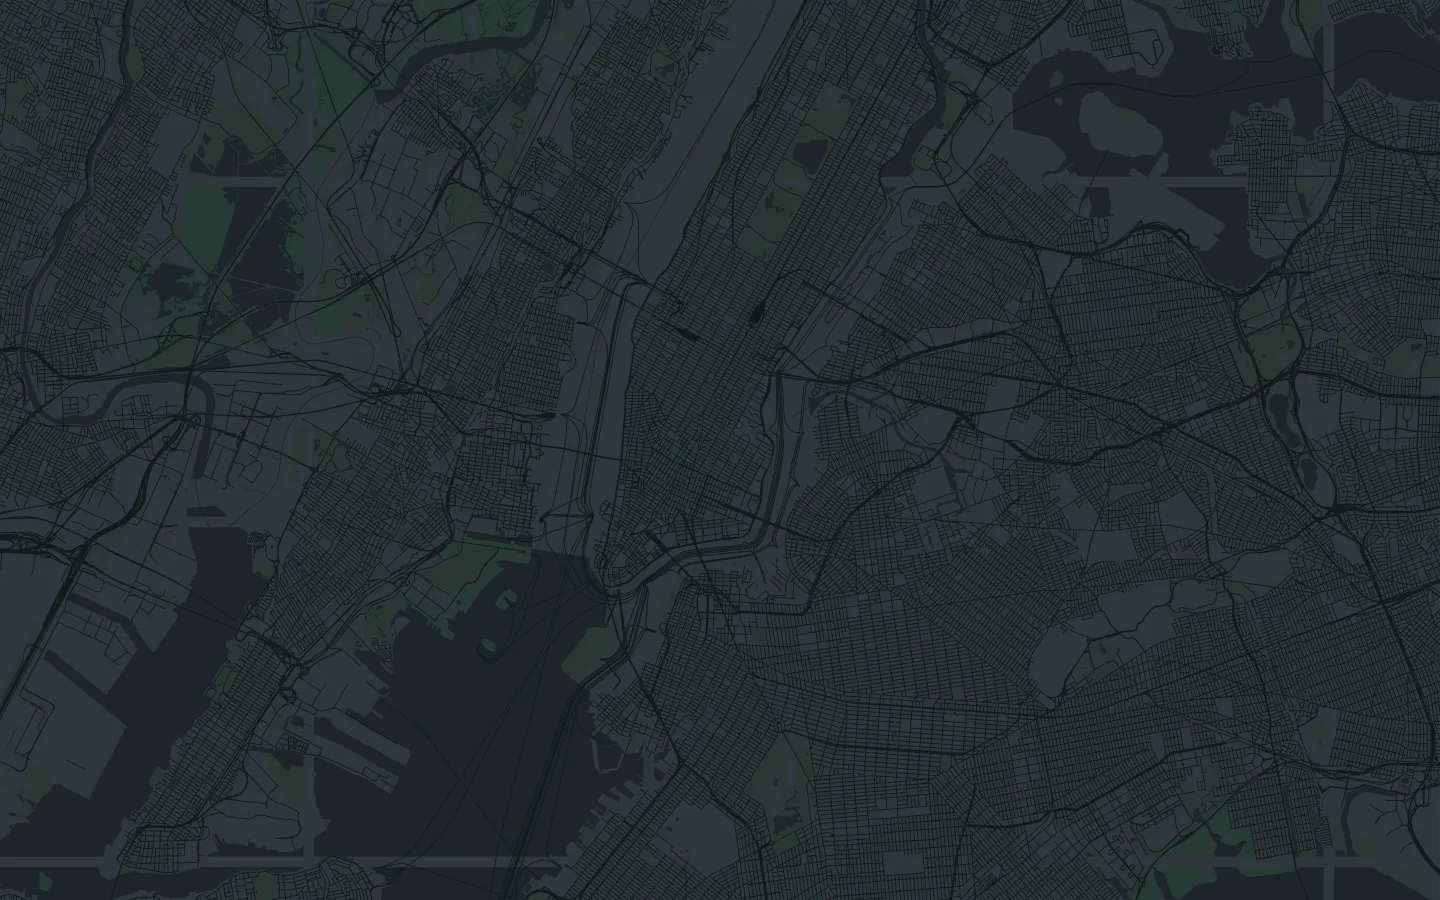
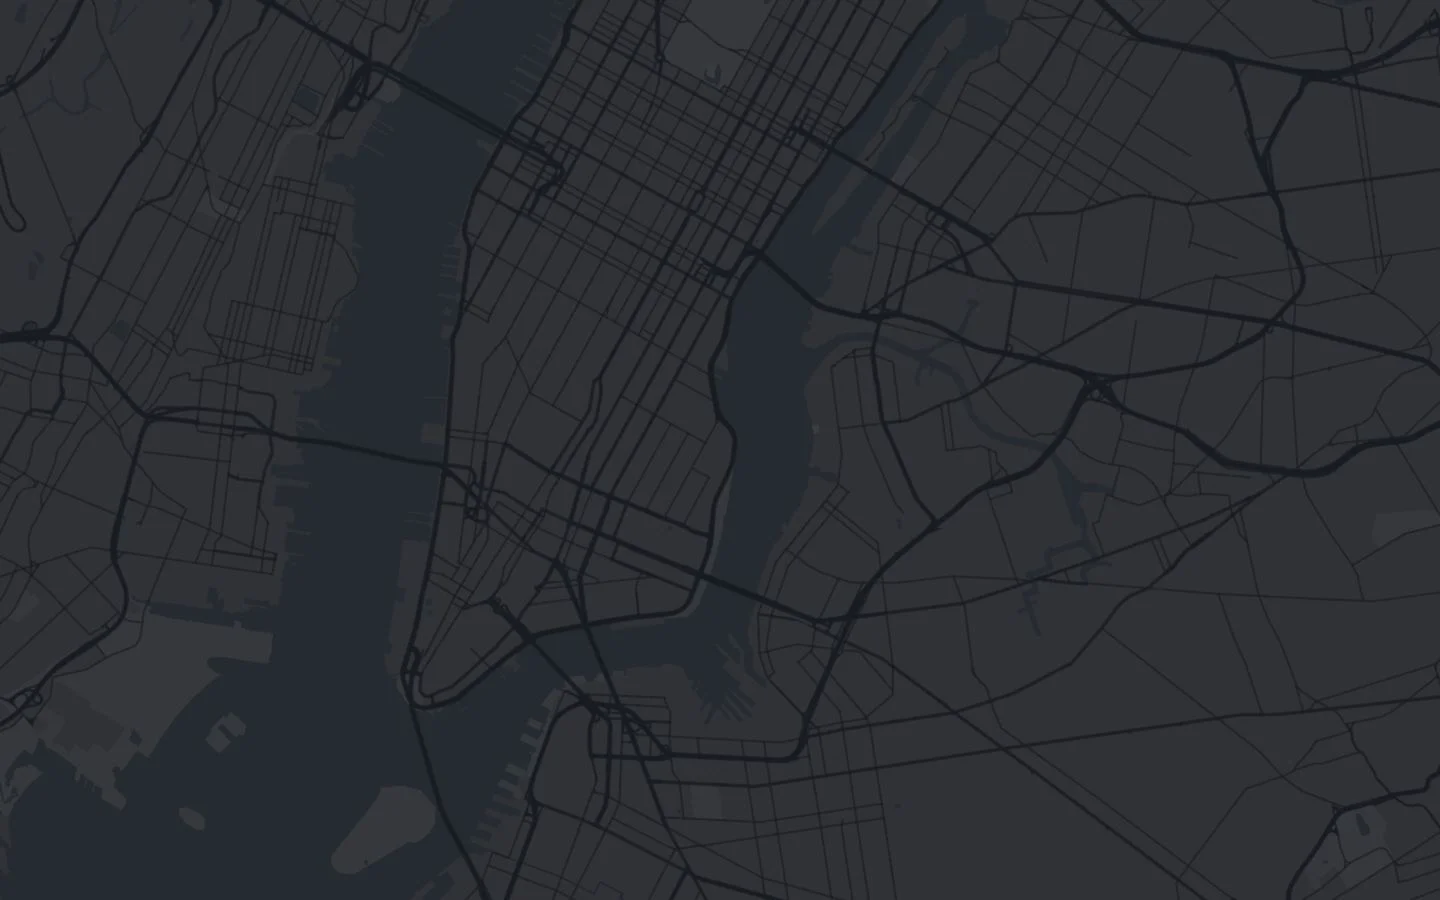
update map loading backdrop to match current setup

diff --git a/app/globals.css b/app/globals.css
@@ -7,7 +7,7 @@
 *{box-sizing:border-box}body{margin:0;background:#202527;color:#edf0ef;font-family:Arial,Helvetica,sans-serif}button{cursor:pointer}button:focus-visible{outline:2px solid #bdd6cd;outline-offset:4px}.map{position:fixed;inset:0}.gear{position:fixed;z-index:20;right:24px;top:max(22px,env(safe-area-inset-top));display:grid;place-items:center;width:44px;height:44px;border:0;background:transparent;color:#f4f6f5;opacity:.5;transition:opacity .2s}.gear:hover,.gear[data-state=open]{opacity:1}.settings{width:330px!important;padding:24px!important;margin-right:20px;border:1px solid #41484a!important;border-radius:14px!important;box-shadow:0 18px 60px #0005!important}.eyebrow{font-size:12px;letter-spacing:.14em;text-transform:uppercase;color:#9ba6a8}.settings h2{font-weight:500;font-size:21px;margin:0 0 26px}.setting-row{display:flex;align-items:center;justify-content:space-between;gap:16px;margin:22px 0;font-size:15px}.setting-row small{display:block;color:#a5afb0;font-size:12px;line-height:1.5;margin-top:4px;max-width:225px}.divider{height:1px;background:#3c4446;margin:24px 0}.settings .note{font-size:12px;line-height:1.65;color:#a4aeaf;margin:14px 0 0}.settings a{color:#c2cecd;text-decoration:underline;text-underline-offset:3px}.reset{font-size:13px;background:none;color:#d7e2df;border:1px solid #505b5d;border-radius:7px;padding:9px 12px}.vehicle{width:29px;height:29px;border:1px solid #ffffff55;border-radius:8px;background:#e5ece8;color:#162123;display:flex;align-items:center;justify-content:center;box-shadow:0 2px 7px #0006;transition:background .2s,box-shadow .2s;padding:5px}.vehicle.ferry{background:#b6d6dc;border-color:#d0ebef;border-radius:50%;color:#17333c}.vehicle:hover,.vehicle.selected{background:#fff;box-shadow:0 0 0 4px #edf5ee30,0 3px 12px #0007;z-index:3}.vehicle svg{width:18px;height:18px}.maplibregl-popup{z-index:30}.maplibregl-popup-content{background:#e4e9e7!important;color:#26322f!important;padding:0!important;border-radius:14px!important;box-shadow:0 12px 55px #0005!important;overflow:hidden}.maplibregl-popup-tip{border-top-color:#e4e9e7!important;border-bottom-color:#e4e9e7!important}.schedule{width:310px;max-width:calc(100vw - 48px);font-family:Arial,sans-serif}.schedule-head{padding:22px 22px 18px;border-bottom:1px solid #cbd3ce;position:relative}.schedule-head .eyebrow{color:#667770;font-size:11px}.schedule-head h2{font-size:19px;line-height:1.3;letter-spacing:-.4px;font-weight:500;margin:8px 20px 8px 0}.schedule-head p{font-size:12px;color:#64746d;margin:0}.close{position:absolute;top:15px;right:13px;border:0;background:transparent;font-size:23px;color:#6c7b74;line-height:1;width:27px;height:27px}.stops{max-height:300px;overflow:auto;padding:17px 20px 20px;scrollbar-width:thin;scrollbar-color:#a5b3ac transparent}.stop{display:grid;grid-template-columns:57px 16px 1fr;gap:10px;min-height:46px;align-items:start;font-size:13px;line-height:18px;position:relative}.stop time{font-variant-numeric:tabular-nums;font-size:12px;text-align:right;color:#4d6057}.stop .pin{position:relative;display:flex;justify-content:center;height:100%}.stop .pin:before{content:'';position:absolute;top:8px;bottom:-8px;width:1px;background:#82978b}.stop:last-child .pin:before{display:none}.stop .pin:after{content:'';width:7px;height:7px;border-radius:50%;border:1.5px solid #526c5d;background:#e4e9e7;position:relative;top:5px}.stop.next .pin:after{background:#426b56;box-shadow:0 0 0 4px #a8c2b250}.stop.past{opacity:.35}.stop.next{font-weight:600}.stop small{display:block;font-size:10px;font-weight:400;letter-spacing:.06em;text-transform:uppercase;color:#5b7565;margin:3px 0 12px}.maplibregl-ctrl-attrib{background:#202527aa!important;color:#81908b!important;font-size:9px!important}.maplibregl-ctrl-attrib a{color:inherit!important}.map-status{position:fixed;left:50%;bottom:32px;transform:translateX(-50%);padding:10px 16px;border-radius:8px;background:#252c2fee;color:#b8c6c2;font-size:13px;z-index:9;max-width:90vw;text-align:center}.maplibregl-canvas:focus{outline:none}@media(max-width:600px){.gear{right:14px;top:max(16px,env(safe-area-inset-top))}.settings{margin-right:12px;width:min(330px,calc(100vw - 24px))!important}.vehicle{width:27px;height:27px}.stops{max-height:240px}}
 .leaflet-container{background:#303236!important}.leaflet-control-attribution{background:#202527aa!important;color:#81908b!important;font-size:9px!important}.leaflet-control-attribution a{color:inherit!important}.vehicle-holder{background:none!important;border:0!important}.park-label{font:10px/1.5 Arial,sans-serif;letter-spacing:1.4px;text-align:center;color:#a2a8ad;pointer-events:none}.leaflet-popup-content-wrapper{background:#e4e9e7!important;padding:0!important;border-radius:14px!important;box-shadow:0 12px 55px #0005!important;overflow:hidden}.leaflet-popup-content{margin:0!important;width:310px!important}.leaflet-popup-tip{background:#e4e9e7!important}.leaflet-popup-content p{margin:0!important}.leaflet-container a{color:inherit}.leaflet-popup{margin-bottom:0!important}
 .vehicle{width:22px;height:22px;padding:3px;border-radius:5px;box-shadow:0 1px 3px #0004;border-color:#dce7e244;background:#d0dbd5}.vehicle svg{width:15px;height:15px}.vehicle.ferry{width:25px;height:25px;padding:4px;background:#aacbd3}.vehicle-holder{display:flex;align-items:center;justify-content:center}.vehicle:hover,.vehicle.selected{box-shadow:0 0 0 3px #edf5ee30,0 2px 8px #0007}.park-label{font-size:10px!important}
-.map-backdrop{position:fixed;inset:0;background:#30383b;pointer-events:none}.map-backdrop img{height:100%;width:100%;object-fit:cover}.map{transition:opacity .25s}
+.map-backdrop{position:fixed;inset:0;background:#303236;pointer-events:none}.map-backdrop img{height:100%;width:100%;object-fit:cover}.map{transition:opacity .25s}
 /* Route badges: only the pointer rotates; labels remain upright. */
 .vehicle,.vehicle.ferry{width:30px;height:30px;padding:0;background:transparent;border:0;border-radius:0;box-shadow:none;color:var(--route-text,#fff);overflow:visible;isolation:isolate}
 .vehicle .badge-shape{position:absolute;inset:2px;background:var(--route-color,#808183);border:1px solid #ffffffe6;border-radius:50%;box-shadow:0 1px 3px #0008;z-index:1}

diff --git a/app/transit-map.tsx b/app/transit-map.tsx
@@ -42,5 +42,5 @@ export default function TransitMap(){
  for(const [id,entry] of entries.current)if(!ids.has(id)){entry.marker.remove();entries.current.delete(id);if(selected.current===id){popup.current?.remove();selected.current=null;}}
  }catch(error){if(cancelled)return;console.error("Transit update",error);setStatus({subway:'Update unavailable',ferry:'Update unavailable'});setNotice('Transit update unavailable. Retrying shortly.');}finally{busy=false;}}
  update();const timer=setInterval(update,30000);return()=>{cancelled=true;controller.abort();clearInterval(timer);};},[loaded,geometryReady,schedule,subway,ferry,mapVersion]);
- return <main aria-label="New York subway and ferry map"><picture className="map-backdrop" aria-hidden="true"><source media="(max-width: 600px)" srcSet="/map/backdrop-mobile.webp"/><img src="/map/backdrop-desktop.webp" alt="" fetchPriority="high"/></picture><div className="map" ref={container} style={{opacity:mapVisible?1:0}}/><Popover open={open} onOpenChange={setOpen}><PopoverTrigger asChild><button className="gear" aria-label="Map settings"><Settings size={23} strokeWidth={1.6}/></button></PopoverTrigger><PopoverContent align="end" sideOffset={9} className="settings"><div className="eyebrow" style={{marginBottom:8}}>City in motion</div><h2>Map settings</h2><div className="setting-row"><label htmlFor="pan">Allow panning</label><Switch id="pan" checked={pan} onCheckedChange={setPan}/></div><div className="setting-row"><label htmlFor="zoom">Allow zooming</label><Switch id="zoom" checked={zoom} onCheckedChange={setZoom}/></div><button className="reset" onClick={reset}><RotateCcw size={12} style={{display:'inline',marginRight:7}}/>Reset view</button><div className="divider"/><div className="eyebrow">Real-time data</div><div className="setting-row"><label htmlFor="subway">Subways<small>{status.subway}</small></label><Switch id="subway" checked={subway} onCheckedChange={setSubway}/></div><div className="setting-row"><label htmlFor="ferry">Ferries<small>{status.ferry}</small></label><Switch id="ferry" checked={ferry} onCheckedChange={setFerry}/></div><p className="note">By default, movement follows published timetables. Live subway locations are estimated from arrival predictions. Ferry GPS is used when available.</p><div className="divider"/><p className="note">Times are in New York local time.<br/>Schedules imported {downloaded||'from official feeds'}.<br/><a href="https://www.mta.info/developers" target="_blank" rel="noreferrer">MTA</a> & <a href="https://www.ferry.nyc/developer-tools/" target="_blank" rel="noreferrer">NYC Ferry</a> · <a href="https://www.openstreetmap.org/copyright" target="_blank" rel="noreferrer">OpenStreetMap</a> / <a href="https://carto.com/attributions" target="_blank" rel="noreferrer">CARTO</a></p></PopoverContent></Popover>{notice&&<div role="status" className="map-status">{notice}</div>}</main>;
+ return <main aria-label="New York subway and ferry map"><picture className="map-backdrop" aria-hidden="true"><source media="(max-width: 600px)" srcSet="/map/backdrop-mobile.webp?v=3"/><img src="/map/backdrop-desktop.webp?v=3" alt="" fetchPriority="high"/></picture><div className="map" ref={container} style={{opacity:mapVisible?1:0}}/><Popover open={open} onOpenChange={setOpen}><PopoverTrigger asChild><button className="gear" aria-label="Map settings"><Settings size={23} strokeWidth={1.6}/></button></PopoverTrigger><PopoverContent align="end" sideOffset={9} className="settings"><div className="eyebrow" style={{marginBottom:8}}>City in motion</div><h2>Map settings</h2><div className="setting-row"><label htmlFor="pan">Allow panning</label><Switch id="pan" checked={pan} onCheckedChange={setPan}/></div><div className="setting-row"><label htmlFor="zoom">Allow zooming</label><Switch id="zoom" checked={zoom} onCheckedChange={setZoom}/></div><button className="reset" onClick={reset}><RotateCcw size={12} style={{display:'inline',marginRight:7}}/>Reset view</button><div className="divider"/><div className="eyebrow">Real-time data</div><div className="setting-row"><label htmlFor="subway">Subways<small>{status.subway}</small></label><Switch id="subway" checked={subway} onCheckedChange={setSubway}/></div><div className="setting-row"><label htmlFor="ferry">Ferries<small>{status.ferry}</small></label><Switch id="ferry" checked={ferry} onCheckedChange={setFerry}/></div><p className="note">By default, movement follows published timetables. Live subway locations are estimated from arrival predictions. Ferry GPS is used when available.</p><div className="divider"/><p className="note">Times are in New York local time.<br/>Schedules imported {downloaded||'from official feeds'}.<br/><a href="https://www.mta.info/developers" target="_blank" rel="noreferrer">MTA</a> & <a href="https://www.ferry.nyc/developer-tools/" target="_blank" rel="noreferrer">NYC Ferry</a> · <a href="https://www.openstreetmap.org/copyright" target="_blank" rel="noreferrer">OpenStreetMap</a> / <a href="https://carto.com/attributions" target="_blank" rel="noreferrer">CARTO</a></p></PopoverContent></Popover>{notice&&<div role="status" className="map-status">{notice}</div>}</main>;
 }
